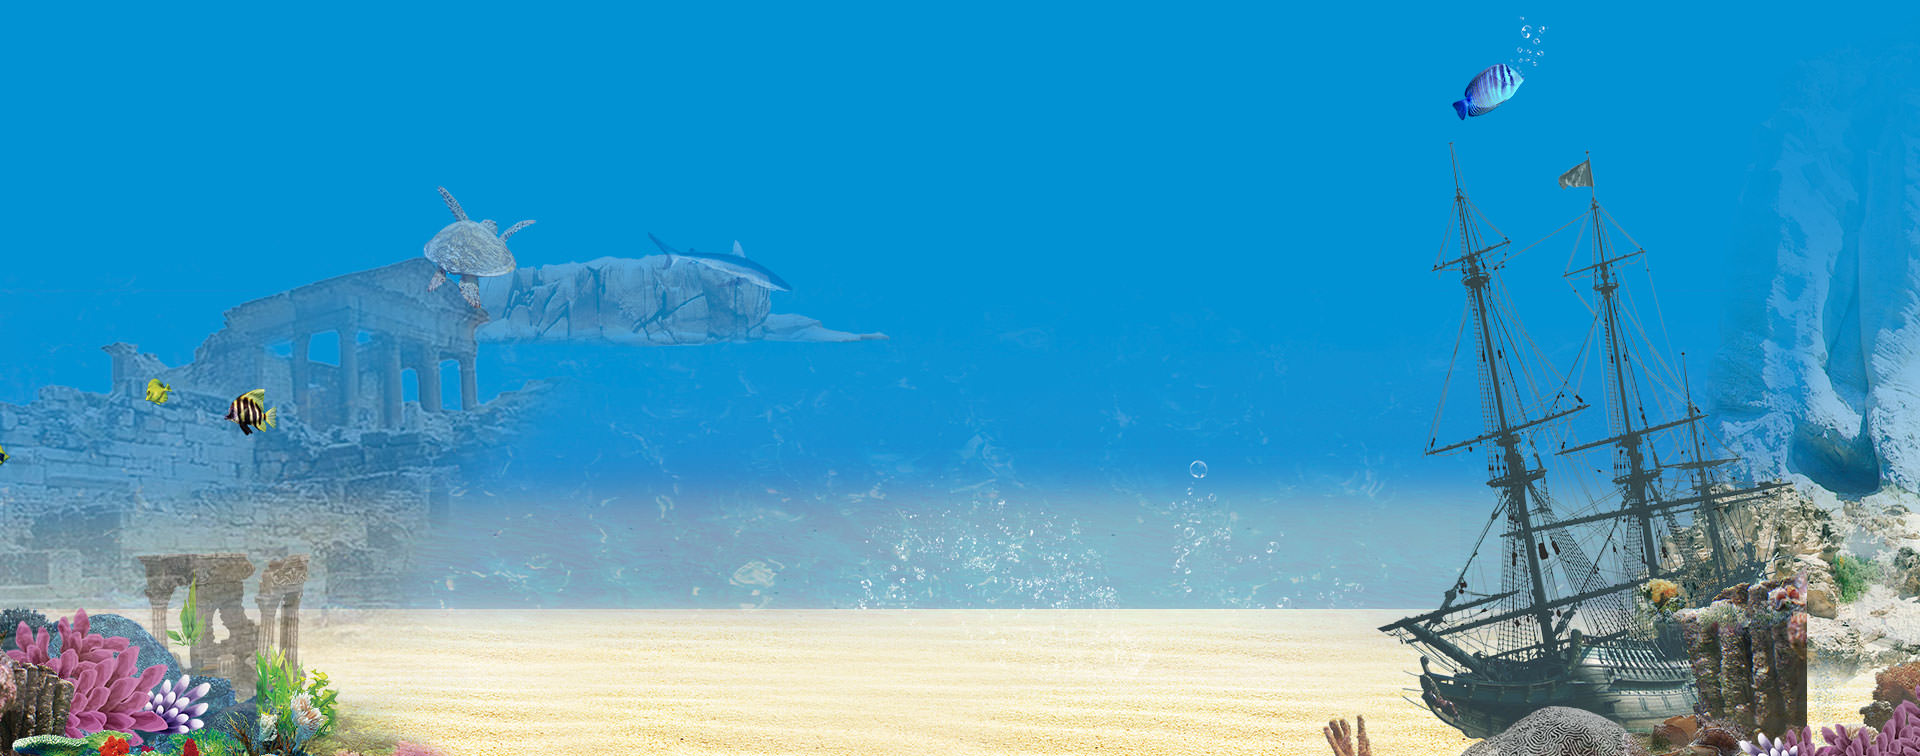
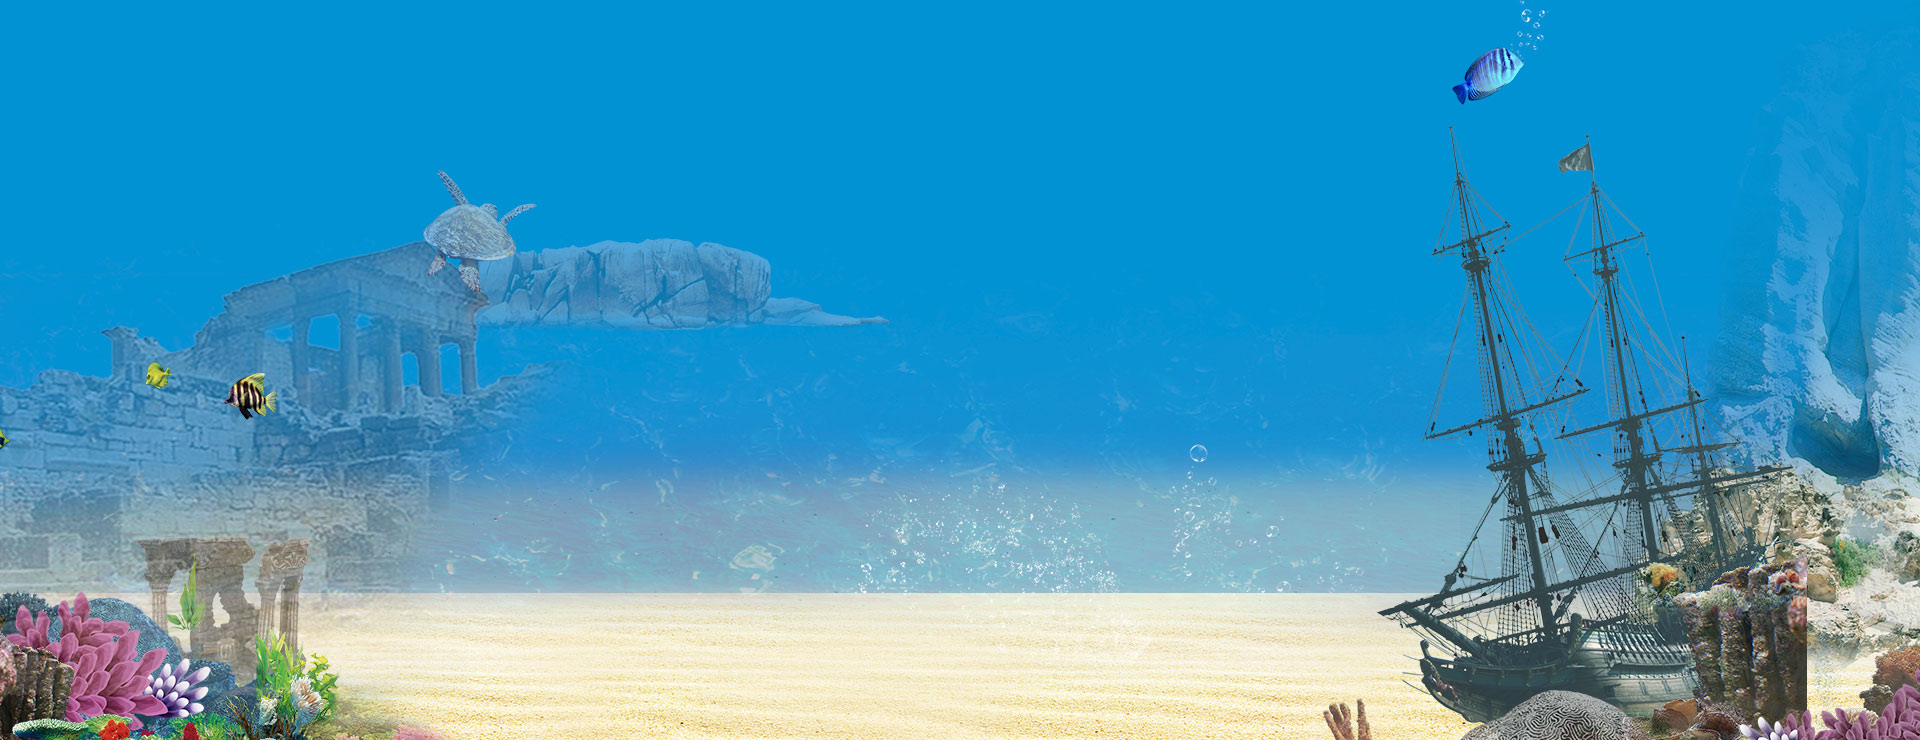
Убрал с футерской картинки акулу Подправил ссылки на соц.сети Добавил сортировку на рубрикатор категорий продуктов Добавил SEO данные в layout

diff --git a/app/Controller/AppController.php b/app/Controller/AppController.php
@@ -1,5 +1,6 @@
 <?php
 App::uses('Controller', 'Controller');
+
 App::uses('AppModel', 'Model');
 App::uses('Article', 'Article.Model');
 App::uses('Media', 'Media.Model');
@@ -12,7 +13,8 @@ class AppController extends Controller {
 	public $uses = array('Article.Article', 'Media.Media', 'CategoryProduct', 'Settings', 'SiteArticle', 'Page');
 	
 	public $paginate;
-	public $aNavBar = array(), $aBottomLinks = array(), $currMenu = '', $currLink = '', $currCat, $pageTitle = '', $aBreadCrumbs = array();
+	public $aNavBar = array(), $aBottomLinks = array(), $currMenu = '', $currLink = '', 
+		$currCat, $pageTitle = '', $aBreadCrumbs = array(), $seo;
 	
 	public function __construct($request = null, $response = null) {
 		$this->_beforeInit();
@@ -87,7 +89,10 @@ class AppController extends Controller {
 	protected function beforeRenderLayout() {
 		$this->loadModel('CategoryProduct');
 		// ??? на странице если явно не указать objectType - загружаются все статьи - BUG!!!
-		$aCategories = $this->CategoryProduct->getObjectOptions('CategoryProduct'); 
+		$fields = array('id', 'title');
+		$conditions = array('CategoryProduct.object_type' => 'CategoryProduct');
+		$order = 'CategoryProduct.sorting ASC';
+		$aCategories = $this->CategoryProduct->find('list', compact('fields', 'conditions', 'order')); 
 		$this->set('aCategories', $aCategories);
 		
 		$this->loadModel('SiteArticle');
@@ -105,6 +110,8 @@ class AppController extends Controller {
 		$page = $this->Page->findBySlug('tenerife');
 		$this->aNavBar['tenerife']['label'] = $page['Page']['title'];
 		$this->set('aNavBar', $this->aNavBar);
+		
+		$this->set('seo', $this->seo);
 	}
 	
 	protected function getObjectType() {

diff --git a/app/Controller/ProductsController.php b/app/Controller/ProductsController.php
@@ -17,6 +17,9 @@ class ProductsController extends AppController {
 		$this->objectType = 'Product';
 		
 		parent::beforeFilter();
+		
+		$this->loadModel('CategoryProduct');
+		$this->loadModel('Product');
 	}
 	
 	public function beforeRender() {
@@ -39,6 +42,9 @@ class ProductsController extends AppController {
 		if ($filter = $this->request->param('named')) {
 			if (isset($filter['Product.cat_id']) && $filter['Product.cat_id']) {
 				$this->currCat = $filter['Product.cat_id'];
+				$category = $this->CategoryProduct->findById($this->currCat);
+				$this->set('category', $category);
+				$this->seo = Hash::get($category, 'Seo');
 			}
 		}
 	}
@@ -55,6 +61,7 @@ class ProductsController extends AppController {
 		}
 		
 		$this->set('article', $article);
+		$this->seo = $article['Seo'];
 		$this->currCat = $article['Product']['cat_id'];
 	}
 }

diff --git a/app/Controller/PagesController.php b/app/Controller/PagesController.php
@@ -9,6 +9,7 @@ class PagesController extends AppController {
 		// Welcome block
 		$article = $this->Page->findBySlug('home');
 		$this->set('article', $article);
+		$this->seo = $article['Seo'];
 		
 		// Новости
 		$conditions = array('News.published' => 1);
@@ -30,7 +31,7 @@ class PagesController extends AppController {
 	public function view($slug) {
 		$article = $this->Page->findBySlug($slug);
 		$this->set('article', $article);
-		
+		$this->seo = $article['Seo'];
 		$this->currMenu = $slug;
 	}
 }

diff --git a/app/Controller/AdminContentController.php b/app/Controller/AdminContentController.php
@@ -29,7 +29,8 @@ class AdminContentController extends AdminController {
         		'fields' => array('id', 'title', 'sorting')
         	),
         	'CategoryProduct' => array(
-        		'fields' => array('title', 'slug'),
+        		'fields' => array('title', 'slug', 'sorting'),
+        		'order' => array('CategoryProduct.sorting' => 'ASC')
         	),
         	'Product' => array(
         		'fields' => array('title', 'slug', 'featured'),

diff --git a/app/Model/Page.php b/app/Model/Page.php
@@ -9,7 +9,7 @@ class Page extends Article {
 		'Seo' => array(
 			'className' => 'Seo.Seo',
 			'foreignKey' => 'object_id',
-			'conditions' => array('Seo.object_type' => 'News'),
+			'conditions' => array('Seo.object_type' => 'Page'),
 			'dependent' => true
 		)
 	);

diff --git a/app/Controller/ArticlesController.php b/app/Controller/ArticlesController.php
@@ -42,9 +42,10 @@ class ArticlesController extends AppController {
 		}
 		
 		if (!$article && !TEST_ENV) {
-			// return $this->redirect('/');
+			return $this->redirect('/');
 		}
 		
 		$this->set('article', $article);
+		$this->seo = $article['Seo'];
 	}
 }

diff --git a/app/Controller/NewsController.php b/app/Controller/NewsController.php
@@ -42,9 +42,10 @@ class NewsController extends AppController {
 		}
 		
 		if (!$article && !TEST_ENV) {
-			// return $this->redirect('/');
+			return $this->redirect('/');
 		}
 		
 		$this->set('article', $article);
+		$this->seo = $article['Seo'];
 	}
 }
